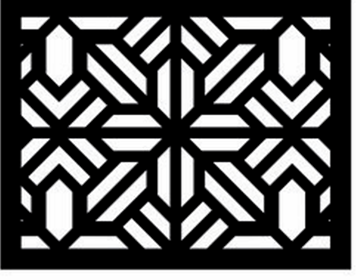
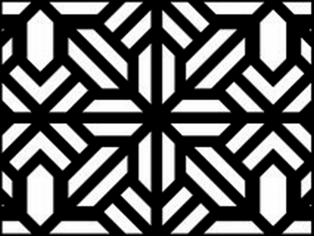
Fix pattern tiles and Avalon branding

diff --git a/public/index.html b/public/index.html
@@ -93,7 +93,12 @@
     :root { --avalon-7016: #383e42; --apple-ink: #1d1d1f; --apple-muted: #6e6e73; --apple-surface: #fbfbfd; --apple-line: rgba(56,62,66,.14); }
     * { font-family: -apple-system, BlinkMacSystemFont, "SF Pro Display", "SF Pro Text", "Helvetica Neue", Arial, sans-serif !important; box-sizing: border-box; -webkit-font-smoothing: antialiased; -moz-osx-font-smoothing: grayscale; text-rendering: optimizeLegibility; }
     body { margin: 0; background-color: #f2f2f2; }
-    .avalon-logo-mark { display: block; object-fit: contain; mix-blend-mode: multiply; filter: grayscale(1) contrast(1.3); }
+    .avalon-logo-mark { display: block; object-fit: contain; }
+    .avalon-logo-mark.is-light { filter: brightness(0) invert(1); }
+    .avalon-brand { display: inline-flex; align-items: center; gap: 9px; color: var(--avalon-7016); }
+    .avalon-brand-copy { display: grid; gap: 1px; text-align: left; line-height: 1; }
+    .avalon-brand-name { font-size: 14px; font-weight: 800; letter-spacing: .12em; }
+    .avalon-brand-tagline { font-size: 8px; font-weight: 750; letter-spacing: .17em; }
     .apple-header { position: sticky; top: 0; z-index: 30; background: rgba(255,255,255,.84) !important; border-color: rgba(56,62,66,.1) !important; -webkit-backdrop-filter: saturate(180%) blur(18px); backdrop-filter: saturate(180%) blur(18px); }
     .apple-action { border-radius: 999px !important; border-color: rgba(56,62,66,.72) !important; color: var(--avalon-7016) !important; transition: transform .2s cubic-bezier(.2,.8,.2,1), background-color .2s ease, box-shadow .2s ease !important; }
     @media (hover: hover) { .apple-action:hover { transform: translateY(-1px); background: #f5f5f7 !important; box-shadow: 0 6px 18px rgba(29,29,31,.12); } }
@@ -214,9 +219,8 @@
     .color-swatch { width: 48px; height: 48px; border-radius: 50%; border: 1px solid rgba(38,50,45,.28); box-shadow: inset 0 1px 0 rgba(255,255,255,.45), 0 2px 5px rgba(0,0,0,.14); }
     .color-choice.is-active .color-swatch { border: 3px solid var(--avalon-7016); }
     .ral-colors-grid { display: grid; grid-template-columns: repeat(4, minmax(0, 1fr)); justify-items: center; gap: 14px 8px; }
-    .pattern-choice { width: 100%; min-width: 0; }
-    .pattern-choice { overflow: hidden; border-radius: 12px !important; background: #fff; }
-    .pattern-choice img { display: block; width: 100%; aspect-ratio: 9 / 7; object-fit: contain; background: #050505; transition: transform .24s cubic-bezier(.2,.8,.2,1), filter .24s ease; }
+    .pattern-choice { width: 100%; min-width: 0; overflow: hidden; border: 1px solid #d2d5d8; border-radius: 12px !important; background: #fff; }
+    .pattern-choice img { display: block; width: 100%; aspect-ratio: 4 / 3; object-fit: cover; background: #050505; transition: transform .24s cubic-bezier(.2,.8,.2,1), filter .24s ease; }
     .pattern-choice .pattern-label { display: block; padding: 9px 8px 10px; text-align: center; color: #1d1d1f; font-size: 12px; font-weight: 750; background: #fff; }
     .pattern-other { min-height: 0; aspect-ratio: 9 / 7; display: grid; place-items: center; padding: 12px; border-style: dashed !important; }
     @media (hover: hover) { .pattern-choice:hover img { transform: scale(1.018); filter: contrast(1.03); } }
@@ -908,15 +912,27 @@
     // ============================================================
     // SMALL COMPONENTS
     // ============================================================
-    function AvalonLogo({ size = 64 }) {
+    function AvalonLogo({ size = 64, tone = "dark" }) {
       return (
         <img
-          src="images/logo-shield-outline.png"
+          src="images/avalon-logo-mark-7016.png"
           alt="Avalon Metal Design"
           width={size} height={size}
-          className="avalon-logo-mark"
+          className={`avalon-logo-mark ${tone === "light" ? "is-light" : ""}`}
           style={{ width: size, height: size }}
         />
+      );
+    }
+
+    function AvalonBrand() {
+      return (
+        <div className="avalon-brand">
+          <AvalonLogo size={38} />
+          <span className="avalon-brand-copy" aria-label="Avalon Metal Design">
+            <strong className="avalon-brand-name">AVALON</strong>
+            <span className="avalon-brand-tagline">METAL DESIGN</span>
+          </span>
+        </div>
       );
     }
 
@@ -1776,7 +1792,7 @@
             <div className="bg-white rounded-2xl shadow-xl p-10 max-w-md w-full text-center">
               <div className="flex justify-center mb-4">
                 <div className="w-16 h-16 rounded-full flex items-center justify-center" style={{ backgroundColor: "#383E42" }}>
-                  <AvalonLogo size={40} />
+                  <AvalonLogo size={40} tone="light" />
                 </div>
               </div>
               <h2 className="text-2xl font-bold mb-2" style={{ color: "#383E42" }}>Дякуємо за замовлення!</h2>
@@ -1816,7 +1832,7 @@
 
           {/* Header */}
           <div className="py-12 px-4 text-center relative overflow-hidden header-glow" style={{ backgroundColor: "#383E42" }}>
-            <div className="flex justify-center mb-5 fade-in"><AvalonLogo size={120} /></div>
+            <div className="flex justify-center mb-5 fade-in"><AvalonLogo size={120} tone="light" /></div>
             <div className="gold-divider h-px w-32 mx-auto mb-6" />
             <h1 className="text-base md:text-lg font-semibold text-white uppercase tracking-widest mb-3 fade-in" style={{ animationDelay: "0.3s" }}>
               {SETTINGS.form_title}
@@ -2374,7 +2390,7 @@
                   style={{ backgroundColor: "#383E42" }}>
                   {submitting ? (
                     <span className="inline-flex items-center justify-center gap-2">
-                      <span className="avalon-spin"><AvalonLogo size={18} /></span> Надсилання…
+                      <span className="avalon-spin"><AvalonLogo size={18} tone="light" /></span> Надсилання…
                     </span>
                   ) : "Надіслати замовлення"}
                 </button>
@@ -2684,9 +2700,8 @@
       const Header = () => (
         <header className="apple-header border-b" style={{ borderColor: "#dce1dc", background: "#ffffff" }}>
           <div className="max-w-6xl mx-auto px-4 sm:px-6 py-4 flex items-center justify-between gap-3">
-            <button type="button" onClick={() => goTo("catalog")} className="flex items-center gap-3 text-left" aria-label="До каталогу моделей">
-              <div style={{ width: 34, height: 34 }} className="flex items-center justify-center"><AvalonLogo size={34} /></div>
-              <div className="text-sm font-semibold tracking-tight" style={{ color: "#383e42" }}>Кошики для кондиціонерів</div>
+            <button type="button" onClick={() => goTo("catalog")} className="text-left" aria-label="До каталогу моделей">
+              <AvalonBrand />
             </button>
             <button type="button" onClick={() => goTo("request")} className="apple-action catalog-choice px-3 sm:px-4 py-2 text-sm font-bold" style={{ border: "1px solid #173d31", borderRadius: 6, color: "#173d31", background: "#fff" }}>
               Заявка <span style={{ color: "#8f7340" }}>({items.length})</span>

diff --git a/CODEX-HANDOFF.md b/CODEX-HANDOFF.md
@@ -419,3 +419,8 @@ Diff на момент передачі:
 - Публікацію на Vercel і зміни Google Apps Script для цього оновлення не
   виконували. Перед злиттям перевірити форму в Preview Vercel та одну тестову
   заявку в Telegram/Google Sheets.
+# Оновлення 17.07.2026: візерунки та логотип каталогу
+
+- Мініатюри `public/images/pattern-thumbnails/k1.png` ... `k10.png` очищено від зовнішньої білої рамки та зайвих чорних полів. Картки використовують співвідношення 4:3 і показують сам візерунок без обрізання.
+- Додано `public/images/avalon-logo-mark-7016.png`: прозорий знак у RAL 7016, сформований з наданого замовником матеріалу.
+- У шапці каталогу тепер фірмовий блок `AVALON` / `METAL DESIGN`; старий невеликий логотип із білим квадратним фоном більше не використовується.
